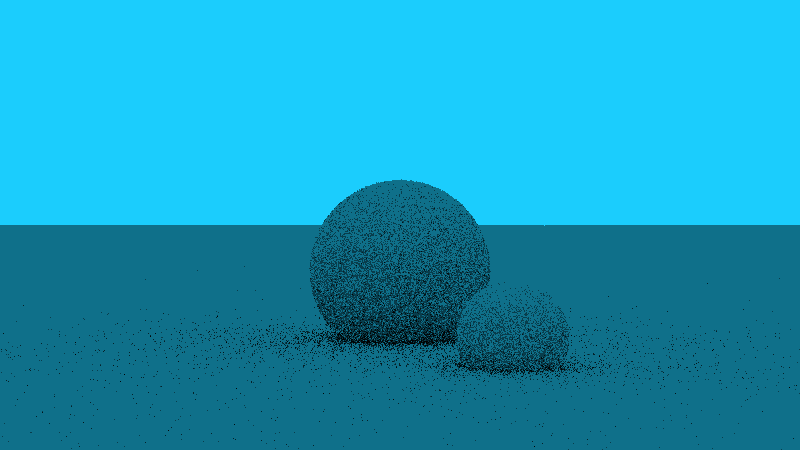
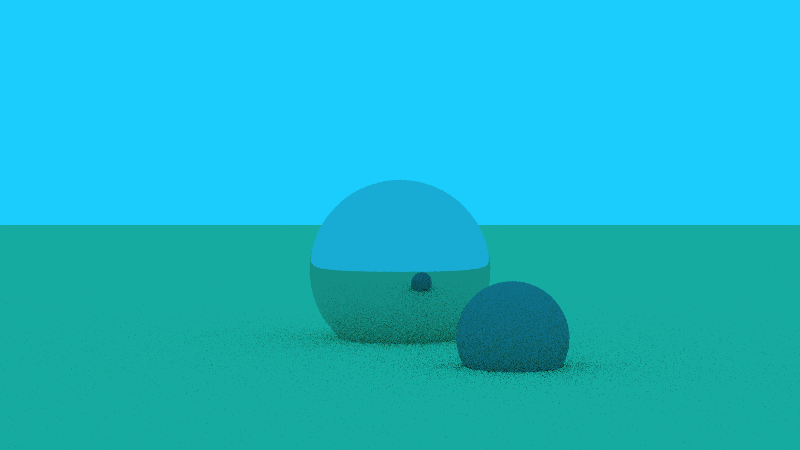
abstracted material class and added Lambertian and Metal

diff --git a/src/plane.rs b/src/plane.rs
@@ -1,5 +1,6 @@
 use crate::element::HitRecord;
 use crate::element::Hittable;
+use crate::materials::Material;
 use crate::ray::Ray;
 use crate::vec3::Vec3;
 
@@ -7,16 +8,16 @@ use crate::vec3::Vec3;
 pub struct Plane {
     pub origin: Vec3,
     pub normal: Vec3,
-    pub color: Vec3,
+    pub material: Material,
 }
 
 impl Plane {
     // Creating a new Plane with an origin and a normal (planes have infitine size)
-    pub fn new(origin: Vec3, normal: Vec3) -> Self {
+    pub fn new(origin: Vec3, normal: Vec3, material: Material) -> Self {
         Plane {
             origin: origin,
             normal: normal.normalized(),
-            color: Vec3::new(30.0,30.0,30.0),
+            material: material,
         }
     }
 }
@@ -48,7 +49,7 @@ impl Hittable for Plane {
                         t: distance,
                         normal: -self.normal, //we need a minus here to get the defraction working, not sure why.....
                         point: p,
-                        color: self.color,
+                        material: self.material,
                     };
                     //log::info!("hit: {:?}", hit);
                     return Some(hit);
@@ -67,24 +68,30 @@ mod tests {
     use crate::vec3::Vec3;
     use crate::ray::{Ray};
     use crate::element::{Hittable};
+    use crate::materials::Material;
+    use crate::materials::Lambertian;
+    use crate::color::Color;
     use assert_approx_eq::assert_approx_eq;
 
     #[test_log::test]
     fn test_create_plane() {
-        let p = Plane::new(Vec3::new(0.0, -2.5, 0.0), Vec3::new(0.0, -2.0, 0.0));
+        let m1: Material = Material::Lambertian(Lambertian::new(Color::new(1.0, 1.0, 1.0)));
+        let p = Plane::new(Vec3::new(0.0, -2.5, 0.0), Vec3::new(0.0, -2.0, 0.0), m1);
         assert_approx_eq!(p.origin, Vec3::new(0.0, -2.5, 0.0));
         assert_approx_eq!(p.normal, Vec3::new(0.0, -1.0, 0.0));
     }
 
     #[test_log::test]
     fn test_hit_plane() {
+        let m1: Material = Material::Lambertian(Lambertian::new(Color::new(1.0, 1.0, 1.0)));
         let r = Ray::new(Vec3::new(0.0,0.0,0.0),Vec3::new(0.0, 0.0, -1.0));
-        let p = Plane::new(Vec3::new(0.0, -2.5, 0.0), Vec3::new(0.0, -2.0, 0.0));
+        let p = Plane::new(Vec3::new(0.0, -2.5, 0.0), Vec3::new(0.0, -2.0, 0.0), m1);
 
         if let Some(hit) = p.hit(&r, 0.0, f64::MAX) {
       //      assert_eq!(hit.t,2.0);
-            assert_eq!(hit.color,p.color);
+      //      assert_eq!(hit.material,p.material);
       //      assert_eq!(hit.point, Vec3::new(0.0,0.0,-2.0));
+
         } 
     }
 }

diff --git a/src/sphere.rs b/src/sphere.rs
@@ -1,5 +1,6 @@
 use crate::element::HitRecord;
 use crate::element::Hittable;
+use crate::materials::Material;
 use crate::ray::Ray;
 use crate::vec3::Vec3;
 
@@ -7,16 +8,16 @@ use crate::vec3::Vec3;
 pub struct Sphere {
     pub center: Vec3,
     pub radius: f64,
-    pub color: Vec3,
+    pub material: Material,
 }
 
 impl Sphere {
     // Creating a new Spehere with a center and a radius
-    pub fn new(center_val: Vec3, r_val: f64) -> Self {
+    pub fn new(center: Vec3, radius: f64, material: Material) -> Self {
         Sphere {
-            center: center_val,
-            radius: r_val,
-            color: Vec3::new(30.0,30.0,30.0),
+            center: center,
+            radius: radius,
+            material: material,
         }
     }
 }
@@ -61,7 +62,7 @@ impl Hittable for Sphere {
                     t: nearest_root,
                     normal: n.normalized(),
                     point: p,
-                    color: self.color,
+                    material: self.material,
                 });
             }
         }
@@ -75,23 +76,28 @@ mod tests {
     use crate::vec3::Vec3;
     use crate::ray::{Ray};
     use crate::element::{Hittable};
+    use crate::materials::Material;
+    use crate::materials::Lambertian;
+    use crate::color::Color;
     use assert_approx_eq::assert_approx_eq;
 
     #[test_log::test]
     fn test_create_sphere() {
-        let s = Sphere::new(Vec3::new(1.0, 2.0, -1.0), 2.0);
+        let m1: Material = Material::Lambertian(Lambertian::new(Color::new(1.0, 1.0, 1.0)));
+        let s = Sphere::new(Vec3::new(1.0, 2.0, -1.0), 2.0, m1);
         assert_approx_eq!(s.center, Vec3::new(1.0, 2.0, -1.0));
         assert_approx_eq!(s.radius, 2.0);
     }
 
     #[test_log::test]
     fn test_hit_sphere() {
+        let m1: Material = Material::Lambertian(Lambertian::new(Color::new(1.0, 1.0, 1.0)));
         let r = Ray::new(Vec3::new(0.0,0.0,0.0),Vec3::new(0.0, 0.0, -1.0));
-        let s: Sphere = Sphere::new(Vec3::new(0.0,0.0,-3.0), 1.0);
+        let s: Sphere = Sphere::new(Vec3::new(0.0,0.0,-3.0), 1.0, m1);
 
         if let Some(hit) = s.hit(&r, 0.0, f64::MAX) {
             assert_eq!(hit.t,2.0);
-            assert_eq!(hit.color,s.color);
+            // assert_eq!(hit.color,s.color);
             assert_eq!(hit.point, Vec3::new(0.0,0.0,-2.0));
         } 
     }

diff --git a/src/materials.rs b/src/materials.rs
@@ -1,0 +1,74 @@
+use crate::color::Color;
+use crate::element::HitRecord;
+use crate::vec3::Vec3;
+use crate::ray::Ray;
+
+#[derive(Debug, Clone, Copy)]
+pub enum Material {
+    Lambertian(Lambertian),
+    Metal(Metal),
+}
+
+pub trait Scatterable {
+    fn scatter(&self, ray: &Ray, hit_record: &HitRecord) -> Option<(Option<Ray>, Color)>;
+}
+
+impl Scatterable for Material {
+    fn scatter(&self, ray: &Ray, hit_record: &HitRecord) -> Option<(Option<Ray>, Color)> {
+        match self {
+            Material::Lambertian(l) => l.scatter(ray, hit_record),
+            Material::Metal(m) => m.scatter(ray, hit_record),
+        }
+    }
+}
+
+#[derive(Debug, Clone, Copy)]
+pub struct Lambertian {
+    pub albedo: Color,
+}
+
+impl Lambertian {
+    pub fn new(albedo: Color) -> Lambertian {
+        Lambertian { albedo }
+    }
+}
+
+impl Scatterable for Lambertian {
+    fn scatter(&self, ray: &Ray, hit_record: &HitRecord) -> Option<(Option<Ray>, Color)> {
+        let mut new_direction = hit_record.normal + Vec3::new_random_unit_vector(); //lambertian distribution
+        if new_direction.near_zero() {
+            new_direction = hit_record.normal;
+        }
+
+        let scattered = Ray::new(hit_record.point, new_direction);
+        let albedo = self.albedo;
+
+        Some((Some(scattered), albedo))
+    }
+}
+
+#[derive(Debug, Clone, Copy)]
+pub struct Metal {
+    pub albedo: Color,
+}
+
+impl Metal {
+    pub fn new(albedo: Color) -> Metal {
+        Metal { albedo }
+    }
+}
+
+fn reflect(v: &Vec3, n: &Vec3) -> Vec3 {
+    *v - *n * (2.0 * v.dot(n))
+}
+
+impl Scatterable for Metal {
+    fn scatter(&self, ray: &Ray, hit_record: &HitRecord) -> Option<(Option<Ray>, Color)> {
+        let new_direction = reflect(&ray.direction.normalized(), &hit_record.normal);
+
+        let scattered = Ray::new(hit_record.point, new_direction);
+        let albedo = self.albedo;
+
+        Some((Some(scattered), albedo))
+    }
+}

diff --git a/src/lib.rs b/src/lib.rs
@@ -2,6 +2,7 @@
 use std::error::Error;
 use image::RgbImage;
 use element::{Hittable, HitRecord};
+use materials::Scatterable;
 
 // Specfic imports
 mod vec3;
@@ -10,6 +11,7 @@ mod sphere;
 mod plane;
 mod color;
 mod element;
+mod materials;
 mod camera;
 pub mod config;
 use crate::vec3::Vec3;
@@ -53,11 +55,34 @@ fn ray_color(c: &Config, r: &Ray, depth: u8) -> Color {
     }
 
     match hits {
-        Some(hit) => { // we hit something, so cast a new ray
-            let new_direction = hit.normal + Vec3::new_random_unit_vector(); //lambertian distribution
-            ray_color(&c, &Ray::new(hit.point,new_direction), depth-1) * 0.3
+        Some(hit) => { // we hit something
+            let scattered = hit.material.scatter(r, &hit);
+
+            match scattered {
+
+                Some((scattered_ray, albedo)) => {
+
+                    match scattered_ray {
+                        Some(sr) => {
+                            let target_color = ray_color(&c, &sr, depth -1);
+                            return Color::new(
+                                albedo.r * target_color.r,
+                                albedo.g * target_color.g,
+                                albedo.b * target_color.b,
+                            );
+                        }
+                        None => albedo
+                    }
+ 
+                }
+
+                None => { // no scattered albedo or ray
+                    return Color::new(0.0,0.0,0.0);
+                }
+                
+            }
         }
-        None => {
+        None => { // we did not hit anything, so we paint the sky
             Color::new(3.0/255.0,165.0/255.0,252.0/255.0) // return sky
         }
     }

diff --git a/src/config.rs b/src/config.rs
@@ -1,7 +1,11 @@
+use crate::color::Color;
 use crate::vec3::Vec3;
 use crate::sphere::Sphere;
 use crate::plane::Plane;
 use crate::element::Element;
+use crate::materials::Material;
+use crate::materials::Lambertian;
+use crate::materials::Metal;
 
 #[derive(Debug)]
 pub struct Config {
@@ -19,8 +23,13 @@ impl Default for Config {
         let w: f64 = 800.0; //image width
         let h: f64 = w/r; //image heigth, doing the math as double but casting to int as we cannot have a float number of heigth
 
-        let s: u8 = 1; //samples
+        let s: u8 = 4; //samples
         let m: u8 = 32; //max depth
+
+        let m1 = Material::Lambertian(Lambertian::new(Color::new(0.3, 0.3, 0.3)));
+        let m2 = Material::Lambertian(Lambertian::new(Color::new(0.6, 0.7, 0.4)));
+
+        let m3: Material = Material::Metal(Metal::new(Color::new(0.8, 0.7, 0.7)));
 
         Config {
             ratio: r,
@@ -29,10 +38,10 @@ impl Default for Config {
             samples: s,
             max_depth: m,
             elements: vec![
-                Element::Sphere(Sphere::new(Vec3::new(0.0, -1.0, -25.0), 2.0)),
-                Element::Sphere(Sphere::new(Vec3::new(2.0, -2.0, -20.0), 1.0)),
+                Element::Sphere(Sphere::new(Vec3::new(0.0, -1.0, -25.0), 2.0, m3)),
+                Element::Sphere(Sphere::new(Vec3::new(2.0, -2.0, -20.0), 1.0, m1)),
                 //Element::Sphere(Sphere::new(Vec3::new(0.0, -61.0, -35.0), 60.0)),                
-                Element::Plane(Plane::new(Vec3::new(0.0, -2.5, 0.0), Vec3::new(0.0, -1.0, 0.0))),
+                Element::Plane(Plane::new(Vec3::new(0.0, -2.5, 0.0), Vec3::new(0.0, -1.0, 0.0), m2)),
             ],
         }
     }

diff --git a/src/vec3.rs b/src/vec3.rs
@@ -19,6 +19,7 @@ impl Vec3 {
         }
     }
 
+    // creates a random vector between a min and a max value
     pub fn new_random(val_min: f64, val_max: f64) -> Self {
         Vec3 {
             x: rand::thread_rng().gen_range(val_min..val_max),
@@ -27,6 +28,7 @@ impl Vec3 {
         }
     }
 
+    // creates a vector within a unit sphere (lenght < 1.0)
     pub fn new_random_unit_sphere() -> Self {
         loop {
             let rv = Vec3::new_random(-1.0,1.0);
@@ -36,20 +38,25 @@ impl Vec3 {
         }
     }
 
+    // creates a normalized random vector in the unit sphere (initial lenght < 1.0)
     pub fn new_random_unit_vector() -> Self {
         Vec3::new_random_unit_sphere().normalized()
     }
 
+    //creates a normalized random vector (on unit sphere) on the same hemisphere as given vector
     pub fn new_random_on_hemisphere(normal: &Vec3) -> Self {
         let rv = Vec3::new_random_unit_vector();
         if rv.dot(&normal) > 0.0 { //in the same hemisphere
-            return rv 
+            return rv; 
         } else {
             return -rv;
         }
     }
 
-
+    // checks if the vector is almost zero
+    pub fn near_zero(&self) -> bool {
+        self.x.abs() < f64::EPSILON && self.y.abs() < f64::EPSILON && self.z.abs() < f64::EPSILON
+    }
 
     // Exposing the x, y, z coordinates through functions
     pub fn x(&self) -> f64 {

diff --git a/src/element.rs b/src/element.rs
@@ -1,3 +1,4 @@
+use crate::materials::Material;
 use crate::sphere::Sphere;
 use crate::plane::Plane;
 use crate::vec3::Vec3;
@@ -8,7 +9,7 @@ pub struct HitRecord {
     pub t: f64,
     pub point: Vec3,
     pub normal: Vec3,
-    pub color: Vec3,
+    pub material: Material,
 }
 
 pub trait Hittable {
